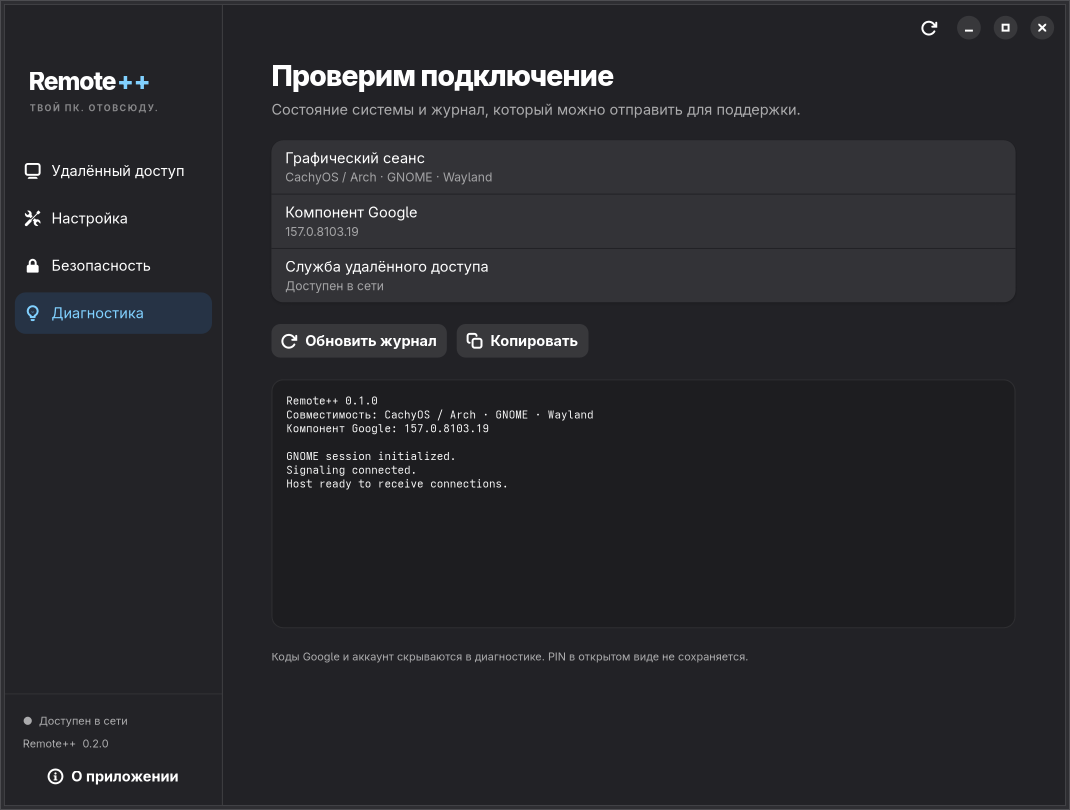
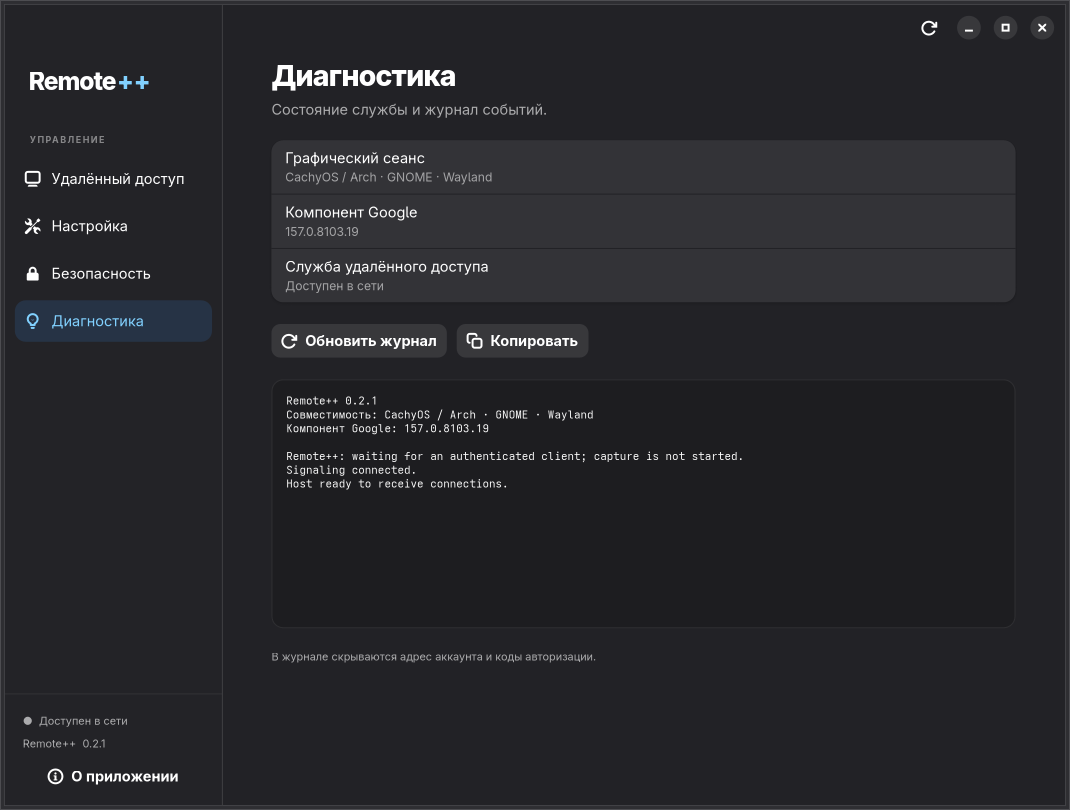
Replace promotional UI copy with concise functional labels

diff --git a/app.py b/app.py
@@ -98,13 +98,13 @@ class Window(Adw.ApplicationWindow):
         brand = box(spacing=0)
         brand.set_margin_start(24)
         brand.set_margin_top(16)
-        brand.set_margin_bottom(6)
+        brand.set_margin_bottom(38)
         brand.append(label('Remote', 'brand'))
         brand.append(label('++', 'brand-plus'))
         content.append(brand)
-        subtitle = label('ТВОЙ ПК. ОТОВСЮДУ.', 'eyebrow')
+        subtitle = label('УПРАВЛЕНИЕ', 'eyebrow')
         subtitle.set_margin_start(25)
-        subtitle.set_margin_bottom(34)
+        subtitle.set_margin_bottom(10)
         content.append(subtitle)
         self.nav = Gtk.ListBox(selection_mode=Gtk.SelectionMode.SINGLE)
         self.nav.add_css_class('nav-list')
@@ -174,7 +174,7 @@ class Window(Adw.ApplicationWindow):
         return content
 
     def build_overview(self):
-        content = self.page('overview', 'Твой компьютер рядом', 'Тот же рабочий стол — с телефона, ноутбука или другого ПК.')
+        content = self.page('overview', 'Удалённый доступ', 'Chrome Remote Desktop · GNOME / Wayland')
         hero = card(20)
         top = box(spacing=18)
         image = Gtk.Image.new_from_file(str(BASE / 'data' / (APP_ID + '.svg')))
@@ -183,11 +183,11 @@ class Window(Adw.ApplicationWindow):
         headings = box(True, 7)
         headings.set_hexpand(True)
         headings.set_valign(Gtk.Align.CENTER)
-        self.status_pill = label('ПРОВЕРЯЕМ ПОДКЛЮЧЕНИЕ', 'status-pill')
+        self.status_pill = label('ПРОВЕРКА СОСТОЯНИЯ', 'status-pill')
         headings.append(self.status_pill)
-        self.hero_title = label('Подготовим удалённый доступ', 'hero-title', True)
+        self.hero_title = label('Проверка состояния…', 'hero-title', True)
         headings.append(self.hero_title)
-        self.hero_subtitle = label('Один раз привяжи Google-аккаунт и задай свой PIN.', 'muted', True)
+        self.hero_subtitle = label('Получение состояния службы.', 'muted', True)
         headings.append(self.hero_subtitle)
         top.append(headings)
         hero.append(top)
@@ -200,13 +200,13 @@ class Window(Adw.ApplicationWindow):
         self.device_row.add_prefix(Gtk.Image.new_from_icon_name('computer-symbolic'))
         self.device_row.add_css_class('property-row')
         details.add(self.device_row)
-        self.account_row = Adw.ActionRow(title='Аккаунт Google', subtitle='Ещё не привязан')
+        self.account_row = Adw.ActionRow(title='Аккаунт Google', subtitle='Не привязан')
         self.account_row.add_prefix(Gtk.Image.new_from_icon_name('avatar-default-symbolic'))
         details.add(self.account_row)
         content.append(details)
         metrics = Gtk.FlowBox(selection_mode=Gtk.SelectionMode.NONE, homogeneous=True, min_children_per_line=1, max_children_per_line=3, column_spacing=12, row_spacing=12)
         self.metrics = {}
-        for key, title, icon in [('screen', 'Рабочий стол', 'video-display-symbolic'), ('memory', 'Память службы', 'org.gnome.Settings-device-security-symbolic'), ('autostart', 'При входе в систему', 'system-run-symbolic')]:
+        for key, title, icon in [('screen', 'Рабочий стол', 'video-display-symbolic'), ('memory', 'Память службы', 'org.gnome.Settings-device-security-symbolic'), ('autostart', 'Автозапуск', 'system-run-symbolic')]:
             tile = box(True, 7, 'metric')
             tile.append(label(title, 'tiny muted'))
             value = label('—', 'metric-value', True)
@@ -216,17 +216,17 @@ class Window(Adw.ApplicationWindow):
         content.append(metrics)
         connect = card(12)
         connect.append(label('Как подключиться', 'section-title'))
-        connect.append(label('Открой Chrome Remote Desktop под тем же Google-аккаунтом, выбери этот компьютер и введи PIN.', 'muted', True))
-        open_button = button('Открыть мои компьютеры', 'web-browser-symbolic', lambda _: self.open_url(GOOGLE_ACCESS))
+        connect.append(label('Откройте Chrome Remote Desktop под тем же аккаунтом Google, выберите компьютер и введите PIN.', 'muted', True))
+        open_button = button('Открыть Chrome Remote Desktop', 'web-browser-symbolic', lambda _: self.open_url(GOOGLE_ACCESS))
         open_button.set_halign(Gtk.Align.START)
         connect.append(open_button)
         content.append(connect)
-        content.append(label('Компьютер должен быть включён, а твой сеанс GNOME — запущен. Захват экрана начинается после авторизации клиента и завершается после отключения последнего клиента.', 'tiny muted', True))
+        content.append(label('Доступ работает в запущенном сеансе GNOME. Захват экрана включается при подключении клиента.', 'tiny muted', True))
 
     def build_setup(self):
-        content = self.page('setup', 'Настройка за пару минут', 'Авторизация остаётся у Google. Remote++ подготовит всё остальное.')
+        content = self.page('setup', 'Настройка', 'Установка компонента Google и регистрация компьютера.')
         group = Adw.PreferencesGroup(title='1. Компонент Google')
-        self.host_row = Adw.ActionRow(title='Chrome Remote Desktop', subtitle='Проверяем установку…')
+        self.host_row = Adw.ActionRow(title='Chrome Remote Desktop', subtitle='Проверка установки…')
         self.host_row.add_prefix(Gtk.Image.new_from_icon_name('package-x-generic-symbolic'))
         self.install_button = button('Установить', callback=lambda _: self.install_host(), css='suggested-action')
         self.install_button.set_valign(Gtk.Align.CENTER)
@@ -241,8 +241,8 @@ class Window(Adw.ApplicationWindow):
         content.append(self.already)
         self.setup_form = box(True, 22)
         google = card()
-        google.append(label('2. Разреши доступ в Google', 'section-title'))
-        google.append(label('На странице Google выбери «Начать», затем «Авторизовать». Скопируй команду для Debian Linux и вставь ниже.', 'muted', True))
+        google.append(label('2. Авторизация Google', 'section-title'))
+        google.append(label('На странице Google выберите «Начать», затем «Авторизовать». Скопируйте команду для Debian Linux и вставьте ниже.', 'muted', True))
         open_button = button('Открыть авторизацию Google', 'web-browser-symbolic', lambda _: self.open_url(GOOGLE_SETUP))
         open_button.set_halign(Gtk.Align.START)
         google.append(open_button)
@@ -250,14 +250,14 @@ class Window(Adw.ApplicationWindow):
         self.command = Adw.PasswordEntryRow(title='Команда Debian Linux от Google')
         group.add(self.command)
         google.append(group)
-        google.append(label('Вставленная команда не выполняется как скрипт. Используется только одноразовый код привязки.', 'tiny muted', True))
+        google.append(label('Код авторизации действует ограниченное время.', 'tiny muted', True))
         self.setup_form.append(google)
-        identity = Adw.PreferencesGroup(title='3. Имя компьютера и PIN', description='Имя латиницей. PIN — от 6 до 20 цифр; его будут спрашивать при подключении.')
+        identity = Adw.PreferencesGroup(title='3. Имя компьютера и PIN', description='Имя латиницей. PIN для подключения: от 6 до 20 цифр.')
         self.device_name = Adw.EntryRow(title='Имя компьютера')
         self.device_name.set_text('CachyOS PC')
         identity.add(self.device_name)
         self.setup_pin = Adw.PasswordEntryRow(title='PIN для подключения')
-        self.setup_confirm = Adw.PasswordEntryRow(title='Повтори PIN')
+        self.setup_confirm = Adw.PasswordEntryRow(title='Повторите PIN')
         for entry in (self.setup_pin, self.setup_confirm):
             entry.set_input_purpose(Gtk.InputPurpose.DIGITS)
             identity.add(entry)
@@ -268,7 +268,7 @@ class Window(Adw.ApplicationWindow):
         content.append(self.setup_form)
 
     def build_security(self):
-        content = self.page('security', 'Доступ под твоим контролем', 'Меняй PIN и решай, когда компьютер доступен удалённо.')
+        content = self.page('security', 'Безопасность', 'PIN, автозапуск и отключение доступа.')
         group = Adw.PreferencesGroup(title='Подключение')
         self.autostart = Adw.SwitchRow(title='Автозапуск при входе', subtitle='Включать удалённый доступ после входа в GNOME')
         self.autostart.connect('notify::active', self.toggle_autostart)
@@ -276,7 +276,7 @@ class Window(Adw.ApplicationWindow):
         content.append(group)
         pin = Adw.PreferencesGroup(title='Новый PIN', description='Смена PIN перезапустит службу и прервёт текущее удалённое подключение.')
         self.new_pin = Adw.PasswordEntryRow(title='Новый PIN')
-        self.new_confirm = Adw.PasswordEntryRow(title='Повтори новый PIN')
+        self.new_confirm = Adw.PasswordEntryRow(title='Повторите новый PIN')
         for row in (self.new_pin, self.new_confirm):
             row.set_input_purpose(Gtk.InputPurpose.DIGITS)
             pin.add(row)
@@ -286,14 +286,14 @@ class Window(Adw.ApplicationWindow):
         content.append(self.pin_button)
         control = card()
         control.append(label('Отключить доступ', 'section-title'))
-        control.append(label('Остановить службу и убрать её из автозапуска. Регистрация Google останется — включить доступ снова можно одной кнопкой.', 'muted', True))
+        control.append(label('Служба будет остановлена, автозапуск выключен. Регистрация Google сохранится.', 'muted', True))
         stop = button('Выключить удалённый доступ', callback=lambda _: self.stop_access(), css='destructive-action')
         stop.set_halign(Gtk.Align.START)
         control.append(stop)
         content.append(control)
 
     def build_diagnostics(self):
-        content = self.page('diagnostics', 'Проверим подключение', 'Состояние системы и журнал, который можно отправить для поддержки.')
+        content = self.page('diagnostics', 'Диагностика', 'Состояние службы и журнал событий.')
         group = Adw.PreferencesGroup()
         self.compat_row = Adw.ActionRow(title='Графический сеанс', subtitle='—')
         self.server_row = Adw.ActionRow(title='Компонент Google', subtitle='—')
@@ -307,12 +307,12 @@ class Window(Adw.ApplicationWindow):
         content.append(actions)
         self.log = Gtk.TextView(editable=False, cursor_visible=False, monospace=True, wrap_mode=Gtk.WrapMode.WORD_CHAR)
         self.log.add_css_class('log-view')
-        self.log.get_buffer().set_text('Нажми «Обновить журнал», чтобы получить диагностику.')
+        self.log.get_buffer().set_text('Нажмите «Обновить журнал» для загрузки событий.')
         scroll = Gtk.ScrolledWindow(min_content_height=250, hscrollbar_policy=Gtk.PolicyType.NEVER)
         scroll.add_css_class('log-panel')
         scroll.set_child(self.log)
         content.append(scroll)
-        content.append(label('Коды Google и аккаунт скрываются в диагностике. PIN в открытом виде не сохраняется.', 'tiny muted', True))
+        content.append(label('В журнале скрываются адрес аккаунта и коды авторизации.', 'tiny muted', True))
 
     def select_page(self, key):
         self.stack.set_visible_child_name(key)
@@ -329,11 +329,11 @@ class Window(Adw.ApplicationWindow):
         try:
             launcher.launch_finish(result)
         except GLib.Error:
-            self.error('Не удалось открыть браузер', 'Открой адрес вручную: ' + launcher.get_uri())
+            self.error('Не удалось открыть браузер', 'Откройте адрес вручную: ' + launcher.get_uri())
 
     def error(self, title, body):
         dialog = Adw.AlertDialog(heading=title, body=body)
-        dialog.add_response('ok', 'Понятно')
+        dialog.add_response('ok', 'Закрыть')
         dialog.set_default_response('ok')
         dialog.present(self)
 
@@ -362,7 +362,7 @@ class Window(Adw.ApplicationWindow):
             self.work.set_visible(False)
             self.stack.set_sensitive(True)
             if error:
-                self.error('Не удалось завершить', error)
+                self.error('Операция не выполнена', error)
             else:
                 if success:
                     self.toast(success)
@@ -408,19 +408,19 @@ class Window(Adw.ApplicationWindow):
         self.state = s
         self.updating = True
         self.banner.set_revealed(not s.compatible or bool(s.problem) or s.legacy_active)
-        self.banner.set_title(s.reason if not s.compatible else 'Обнаружена служба отдельного рабочего стола. Откройте диагностику.' if s.legacy_active else 'Связь с Google пока не установлена. Проверьте интернет и диагностику.' if s.problem else '')
+        self.banner.set_title(s.reason if not s.compatible else 'Обнаружена служба отдельного рабочего стола. Откройте диагностику.' if s.legacy_active else 'Соединение с Google не установлено. Проверьте подключение к интернету и журнал.' if s.problem else '')
         for css in ('online', 'offline'):
             self.status_pill.remove_css_class(css)
         if s.online:
-            pill, title, subtitle, action = 'ДОСТУПЕН В СЕТИ', 'Можно подключаться', 'Google видит этот компьютер. Твой рабочий стол готов к подключению.', 'Выключить доступ'
+            pill, title, subtitle, action = 'В СЕТИ', 'Доступ включён', 'Соединение с Google установлено.', 'Выключить доступ'
             self.status_pill.add_css_class('online')
         elif s.active:
-            pill, title, subtitle, action = 'ПОДКЛЮЧАЕМСЯ К GOOGLE', 'Устанавливаем соединение', 'Это обычно занимает несколько секунд. Если статус не меняется — открой диагностику.', 'Выключить доступ'
+            pill, title, subtitle, action = 'ПОДКЛЮЧЕНИЕ', 'Соединение с Google…', 'Если соединение не устанавливается, проверьте журнал в разделе «Диагностика».', 'Выключить доступ'
         elif s.registered:
-            pill, title, subtitle, action = 'ДОСТУП ВЫКЛЮЧЕН', 'Сейчас компьютер недоступен', 'Регистрация сохранена. Включи доступ, когда он понадобится.', 'Включить доступ'
+            pill, title, subtitle, action = 'ОТКЛЮЧЁН', 'Доступ выключен', 'Регистрация Google сохранена.', 'Включить доступ'
             self.status_pill.add_css_class('offline')
         else:
-            pill, title, subtitle, action = 'ЕЩЁ НЕ НАСТРОЕН', 'Начнём с твоего компьютера', 'Привяжи аккаунт Google и задай PIN. Всё остальное Remote++ подготовит сам.', 'Настроить доступ'
+            pill, title, subtitle, action = 'ТРЕБУЕТСЯ НАСТРОЙКА', 'Доступ не настроен', 'Для подключения необходимы аккаунт Google и PIN.', 'Настроить доступ'
         self.status_pill.set_text(pill)
         self.hero_title.set_text(title)
         self.hero_subtitle.set_text(subtitle)
@@ -428,11 +428,11 @@ class Window(Adw.ApplicationWindow):
         self.primary.set_sensitive(s.compatible)
         self.side_status.set_text('●  ' + ('Доступен в сети' if s.online else 'Подключение…' if s.active else 'Доступ выключен'))
         self.device_row.set_subtitle(s.name or '—')
-        self.account_row.set_subtitle(s.account or 'Ещё не привязан')
+        self.account_row.set_subtitle(s.account or 'Не привязан')
         self.metrics['screen'].set_text('Текущий')
         self.metrics['memory'].set_text(s.memory)
         self.metrics['autostart'].set_text('Включён' if s.enabled else 'Выключен')
-        self.host_row.set_subtitle(('Установлен · ' + s.host_version) if s.host_installed else 'Нужен для первого подключения')
+        self.host_row.set_subtitle(('Установлен · ' + s.host_version) if s.host_installed else 'Не установлен')
         self.install_button.set_visible(not s.host_installed)
         self.install_button.set_sensitive(s.compatible)
         self.setup_form.set_visible(not s.registered)
@@ -453,7 +453,7 @@ class Window(Adw.ApplicationWindow):
         elif self.state.active:
             self.stop_access()
         else:
-            self.task('Включаем удалённый доступ…', lambda: self.backend.start(True), 'Доступ включён')
+            self.task('Включение удалённого доступа…', lambda: self.backend.start(True), 'Доступ включён')
 
     def install_host(self):
         self.task('Подготовка установки…', lambda: self.backend.install_host(self.report), 'Компонент Google установлен')
@@ -465,36 +465,36 @@ class Window(Adw.ApplicationWindow):
             validate_pin(pin, confirmation)
             parse_google_command(command)
         except RemoteError as exc:
-            self.error('Проверь данные', str(exc))
+            self.error('Некорректные данные', str(exc))
             return
         def done(_):
             for entry in (self.command, self.setup_pin, self.setup_confirm):
                 entry.set_text('')
             self.select_page('overview')
-        self.task('Привязываем компьютер к Google…', lambda: self.backend.connect_google(command, name, pin, confirmation), 'Компьютер привязан', done)
+        self.task('Регистрация компьютера в Google…', lambda: self.backend.connect_google(command, name, pin, confirmation), 'Компьютер привязан', done)
 
     def change_pin(self):
         pin, confirmation = self.new_pin.get_text(), self.new_confirm.get_text()
         try:
             validate_pin(pin, confirmation)
         except RemoteError as exc:
-            self.error('Проверь PIN', str(exc))
+            self.error('Некорректный PIN', str(exc))
             return
         def done(_):
             self.new_pin.set_text('')
             self.new_confirm.set_text('')
-        self.task('Сохраняем новый PIN…', lambda: self.backend.change_pin(pin, confirmation), 'Новый PIN сохранён', done)
+        self.task('Сохранение PIN…', lambda: self.backend.change_pin(pin, confirmation), 'Новый PIN сохранён', done)
 
     def toggle_autostart(self, row, _):
         if not self.updating:
             value = row.get_active()
-            self.task('Меняем автозапуск…', lambda: self.backend.set_autostart(value), 'Автозапуск включён' if value else 'Автозапуск выключен')
+            self.task('Изменение автозапуска…', lambda: self.backend.set_autostart(value), 'Автозапуск включён' if value else 'Автозапуск выключен')
 
     def stop_access(self):
         def stop():
             self.backend.stop()
             self.backend.set_autostart(False)
-        self.task('Выключаем удалённый доступ…', stop, 'Удалённый доступ выключен')
+        self.task('Отключение удалённого доступа…', stop, 'Удалённый доступ выключен')
 
     def confirm_disconnect(self):
         dialog = Adw.AlertDialog(heading='Отвязать этот компьютер?', body='Удалённый доступ будет выключен. После новой привязки этот компьютер появится в другом аккаунте. Старую запись можно удалить на странице Google.')
@@ -503,14 +503,14 @@ class Window(Adw.ApplicationWindow):
         dialog.set_response_appearance('disconnect', Adw.ResponseAppearance.DESTRUCTIVE)
         dialog.set_default_response('cancel')
         dialog.set_close_response('cancel')
-        dialog.connect('response', lambda _, response: self.task('Отключаем регистрацию…', self.backend.disconnect, 'Компьютер отвязан') if response == 'disconnect' else None)
+        dialog.connect('response', lambda _, response: self.task('Удаление привязки…', self.backend.disconnect, 'Компьютер отвязан') if response == 'disconnect' else None)
         dialog.present(self)
 
     def load_diagnostics(self):
         if self.preview:
-            self.log.get_buffer().set_text('Remote++ 0.1.0\nСовместимость: CachyOS / Arch · GNOME · Wayland\nКомпонент Google: 157.0.8103.19\n\nGNOME session initialized.\nSignaling connected.\nHost ready to receive connections.')
+            self.log.get_buffer().set_text(f'Remote++ {VERSION}\nСовместимость: CachyOS / Arch · GNOME · Wayland\nКомпонент Google: 157.0.8103.19\n\nRemote++: waiting for an authenticated client; capture is not started.\nSignaling connected.\nHost ready to receive connections.')
             return
-        self.task('Получаем диагностику…', self.backend.diagnostics, '', lambda text: self.log.get_buffer().set_text(text))
+        self.task('Загрузка журнала…', self.backend.diagnostics, '', lambda text: self.log.get_buffer().set_text(text))
 
     def copy_diagnostics(self):
         buffer = self.log.get_buffer()
@@ -524,15 +524,15 @@ class Window(Adw.ApplicationWindow):
 
     def on_close(self, _):
         if self.busy:
-            self.toast('Дождись завершения текущей операции')
+            self.toast('Дождитесь завершения операции')
             return True
         return False
 
     def about(self):
         dialog = Adw.AboutDialog(application_name='Remote++', application_icon=APP_ID,
             developer_name='edgarsskills-fix', version=VERSION, license_type=Gtk.License.MIT_X11,
-            comments='Удобная настройка Chrome Remote Desktop для текущего рабочего стола GNOME на CachyOS.',
-            website='https://github.com/edgarsskills-fix')
+            comments='Настройка Chrome Remote Desktop для GNOME на Wayland.',
+            website='https://github.com/edgarsskills-fix/remote-plus-plus')
         dialog.set_copyright('© 2026 edgarsskills-fix')
         dialog.present(self)
 

diff --git a/core.py b/core.py
@@ -18,7 +18,7 @@ import tempfile
 import time
 from typing import Callable
 
-VERSION = '0.2.0'
+VERSION = '0.2.1'
 APP_ID = 'io.github.edgarsskills.RemotePlusPlus'
 UNIT = 'crd-current-session.service'
 GOOGLE_SETUP = 'https://remotedesktop.google.com/headless'

diff --git a/packaging/build.py b/packaging/build.py
@@ -9,7 +9,7 @@ import tarfile
 import zipfile
 
 ROOT = Path(__file__).resolve().parents[1]
-VERSION = '0.2.0'
+VERSION = '0.2.1'
 EXCLUDED = {'.git', '__pycache__', 'dist', '.pytest_cache', '.ruff_cache'}
 
 

diff --git a/docs/VALIDATION.md b/docs/VALIDATION.md
@@ -1,4 +1,7 @@
-# Validation for 0.2.0
+# Validation for 0.2.1
+
+0.2.1 updates interface text and documentation. Capture/authentication behavior
+is unchanged from 0.2.0.
 
 Environment: CachyOS x86_64, GNOME 51 / Wayland, GTK 4.24,
 libadwaita 1.10, Python 3.14, Google host 157.0.8103.19.
